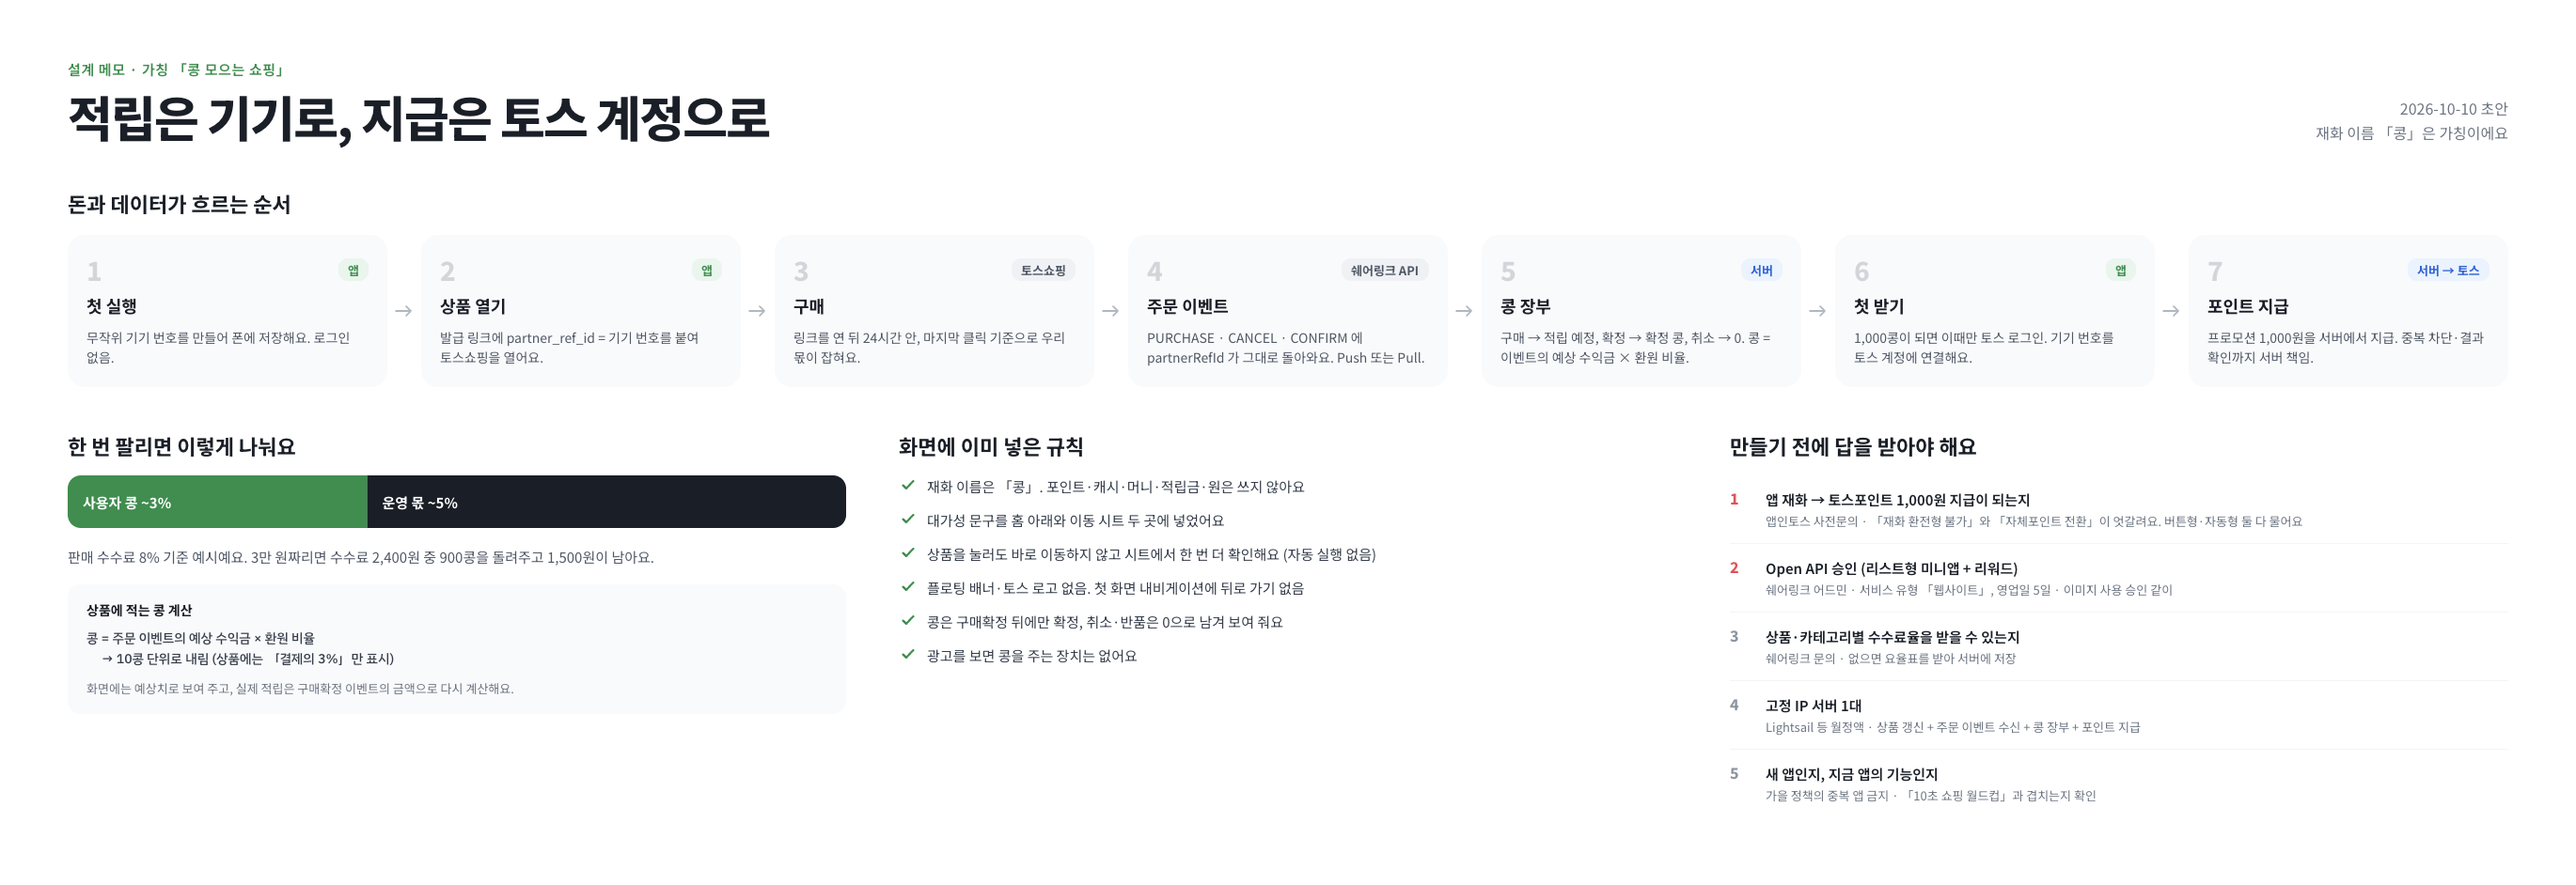
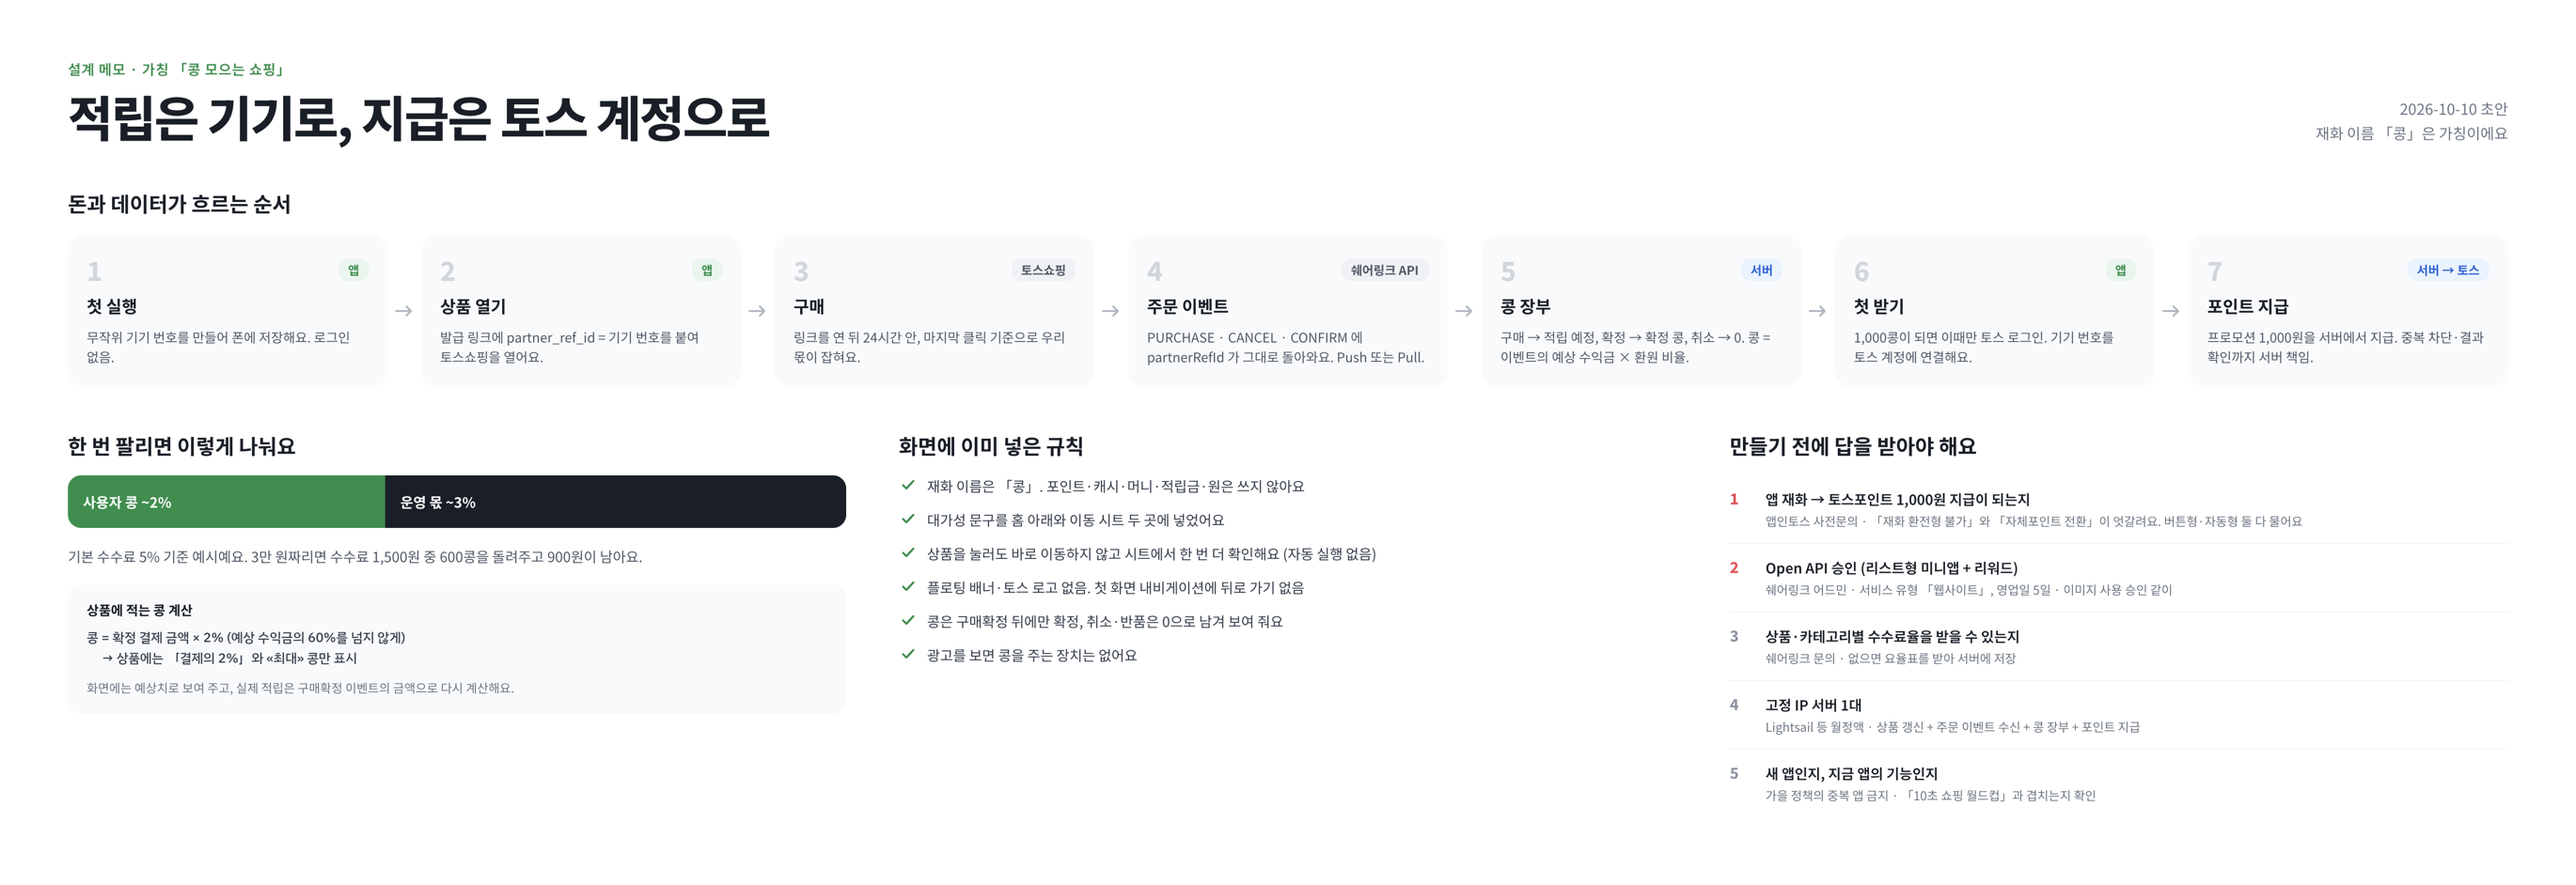
콩 비율 3% → 2%: 본문 기준 문구·이동 전 안내 화면·흐름도

diff --git a/index.html b/index.html
@@ -54,7 +54,7 @@
 
   <h2>콩 적립 원칙</h2>
   <div class="box">
-    <p><strong>기준</strong> — 상품 화면에는 「결제의 3% 콩」처럼 비율만 안내해요. 정확한 콩은 주문이 확인된 뒤, 쿠폰·포인트를 뺀 실제 결제 금액을 기준으로 정해져요.</p>
+    <p><strong>기준</strong> — 상품 화면에는 「결제의 2% 콩」 비율과, 판매가로 계산한 «최대» 콩만 안내해요(쿠폰·포인트를 쓰면 줄어든다고 함께 적어요). 정확한 콩은 주문이 확인된 뒤, 쿠폰·포인트를 뺀 실제 결제 금액을 기준으로 정해져요.</p>
     <p><strong>확정</strong> — 구매확정 이벤트를 받은 뒤에만 확정 콩이 돼요.</p>
     <p><strong>받기</strong> — 콩이 일정 단위로 모이면 앱인토스 프로모션(토스포인트)으로 받을 수 있도록 준비 중이에요. 지급 조건과 한도는 프로모션 승인 내용에 따라 앱 안에서 미리 안내해요.</p>
     <p style="margin:0"><strong>식별</strong> — 링크에는 앱이 만든 무작위 식별자만 붙여요. 이름·전화번호 같은 개인정보는 넣지 않아요.</p>
